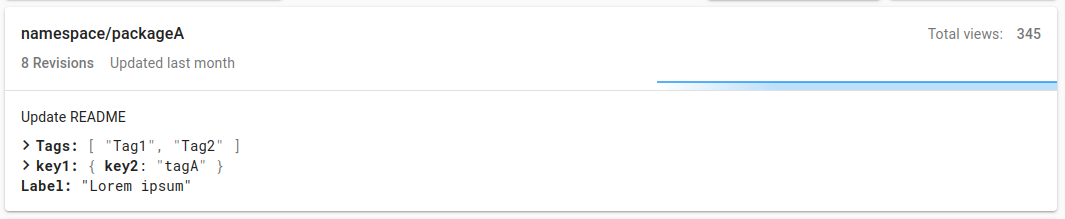
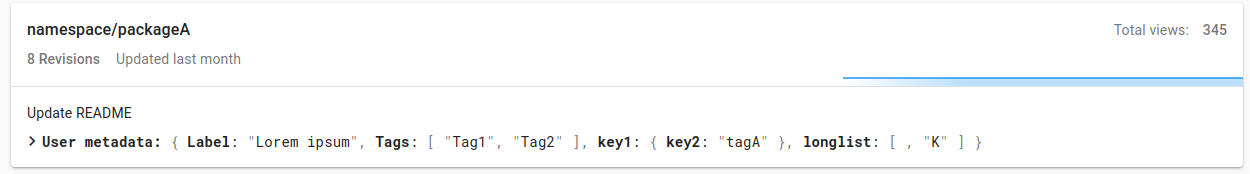
User metadata on one line (#3284)

diff --git a/catalog/app/utils/BucketPreferences/BucketPreferences.ts b/catalog/app/utils/BucketPreferences/BucketPreferences.ts
@@ -56,9 +56,13 @@ export interface PackagePreferences {
   userMeta?: ReadonlyArray<string>
 }
 type PackagesListPreferencesInput = Record<string, PackagePreferencesInput>
-type PackagesListPreferences = Record<string, PackagePreferences>
+interface PackagesListPreferences {
+  packages: Record<string, PackagePreferences>
+  userMetaMultiline: boolean
+}
 
 type DefaultSourceBucketInput = string
+type PackageDescriptionMultiline = boolean
 type SourceBucketsInput = Record<string, null>
 
 export interface AthenaPreferencesInput {
@@ -77,6 +81,7 @@ interface UiPreferencesInput {
   defaultSourceBucket?: DefaultSourceBucketInput
   nav?: Partial<NavPreferences>
   package_description?: PackagesListPreferencesInput
+  package_description_multiline?: PackageDescriptionMultiline
   sourceBuckets?: SourceBucketsInput
 }
 
@@ -94,7 +99,7 @@ interface UiPreferences {
   athena: AthenaPreferences
   blocks: BlocksPreferences
   nav: NavPreferences
-  package_description: PackagesListPreferences
+  packageDescription: PackagesListPreferences
   sourceBuckets: SourceBuckets
 }
 
@@ -132,10 +137,13 @@ const defaultPreferences: BucketPreferences = {
       packages: true,
       queries: true,
     },
-    package_description: {
-      '.*': {
-        message: true,
+    packageDescription: {
+      packages: {
+        '.*': {
+          message: true,
+        },
       },
+      userMetaMultiline: false,
     },
     sourceBuckets: {
       getDefault: () => '',
@@ -186,16 +194,25 @@ function parseBlocks(blocks?: BlocksPreferencesInput): BlocksPreferences {
   }
 }
 
-function parsePackages(packages?: PackagesListPreferencesInput): PackagesListPreferences {
+function parsePackages(
+  packages?: PackagesListPreferencesInput,
+  userMetaMultiline: boolean = false,
+): PackagesListPreferences {
   return Object.entries(packages || {}).reduce(
-    (memo, [name, { message, user_meta }]) => ({
-      ...memo,
-      [name]: {
-        message,
-        userMeta: user_meta,
-      },
-    }),
-    defaultPreferences.ui.package_description,
+    (memo, [name, { message, user_meta }]) =>
+      R.assocPath(
+        ['packages', name],
+        {
+          message,
+          userMeta: user_meta,
+        },
+        memo,
+      ),
+    {
+      packages: defaultPreferences.ui.packageDescription.packages,
+      userMetaMultiline:
+        userMetaMultiline || defaultPreferences.ui.packageDescription.userMetaMultiline,
+    },
   )
 }
 
@@ -232,7 +249,10 @@ export function extendDefaults(
       ...R.mergeDeepRight(defaultPreferences.ui, data?.ui || {}),
       athena: parseAthena(data?.ui?.athena),
       blocks: parseBlocks(data?.ui?.blocks),
-      package_description: parsePackages(data?.ui?.package_description),
+      packageDescription: parsePackages(
+        data?.ui?.package_description,
+        data?.ui?.package_description_multiline,
+      ),
       sourceBuckets: parseSourceBuckets(
         sentry,
         data?.ui?.sourceBuckets,

diff --git a/catalog/app/containers/Bucket/PackageList/PackageList.tsx b/catalog/app/containers/Bucket/PackageList/PackageList.tsx
@@ -224,20 +224,30 @@ interface RevisionMetaProps {
 
 function RevisionMeta({ revision }: RevisionMetaProps) {
   const classes = useRevisionMetaStyles()
+  const { preferences } = BucketPreferences.use()
   return (
     <div className={classes.root}>
       {!!revision.message && <div className={classes.section}>{revision.message}</div>}
       {!!revision.userMeta && (
         <div className={classes.section}>
-          {Object.entries(revision.userMeta).map(([name, value]) => (
-            /* @ts-expect-error */
+          {preferences?.ui.packageDescription.userMetaMultiline ? (
+            Object.entries(revision.userMeta).map(([name, value]) => (
+              // @ts-expect-error
+              <JsonDisplay
+                className={cx({ [classes.sectionWithToggle]: typeof value === 'object' })}
+                key={`user-meta-section-${name}`}
+                name={name}
+                value={value}
+              />
+            ))
+          ) : (
+            // @ts-expect-error
             <JsonDisplay
-              className={cx({ [classes.sectionWithToggle]: typeof value === 'object' })}
-              key={`user-meta-section-${name}`}
-              name={name}
-              value={value}
+              className={classes.sectionWithToggle}
+              name="User metadata"
+              value={revision.userMeta}
             />
-          ))}
+          )}
         </div>
       )}
     </div>
@@ -259,9 +269,9 @@ function usePackageDescription(
 ): BucketPreferences.PackagePreferences | null {
   const { preferences } = BucketPreferences.use()
   return React.useMemo(() => {
-    if (!preferences?.ui.package_description) return null
+    if (!preferences?.ui.packageDescription.packages) return null
     return (
-      Object.entries(preferences?.ui.package_description)
+      Object.entries(preferences?.ui.packageDescription.packages)
         .reverse() // The last found config wins
         .find(([nameRegex]) => new RegExp(nameRegex).test(name))?.[1] || {}
     )

diff --git a/catalog/app/utils/BucketPreferences/BucketPreferences.spec.ts b/catalog/app/utils/BucketPreferences/BucketPreferences.spec.ts
@@ -30,10 +30,13 @@ const expectedDefaults = {
       packages: true,
       queries: true,
     },
-    package_description: {
-      '.*': {
-        message: true,
+    packageDescription: {
+      packages: {
+        '.*': {
+          message: true,
+        },
       },
+      userMetaMultiline: false,
     },
     sourceBuckets: {
       list: [],

diff --git a/docs/Catalog/Preferences.md b/docs/Catalog/Preferences.md
@@ -33,6 +33,7 @@ ui:
   package_description:
     .*:
       message: True
+  package_description_multiline: False
 ```
 
 ### Properties
@@ -62,6 +63,7 @@ that is selected by default; if it doesn't match any bucket then it's ignored
 that maps package handle regular expressions
 or literals to JSONPath expressions of fields to show from package metadata
 in the package list view.
+* `ui.package_description_multiline: True` - expands package metadata's root key/values
 * `ui.athena.defaultWorkgroup` - default workgroup to select on the Athena page
 
 #### `ui.sourceBuckets` example

diff --git a/docs/CHANGELOG.md b/docs/CHANGELOG.md
@@ -27,6 +27,7 @@ Entries inside each section should be ordered by type:
 * [Changed] Show collapsed values in JSON viewer ([#3249](https://github.com/quiltdata/quilt/pull/3249))
 * [Changed] Rename "Metadata" to "User metadata" ([#3255](https://github.com/quiltdata/quilt/pull/3255))
 * [Changed] Show selective metadata for packages as JSON ([#3259](https://github.com/quiltdata/quilt/pull/3259))
+* [Changed] Show selective metadata on one line and optionaly on multiple lines ([#3284](https://github.com/quiltdata/quilt/pull/3284))
 
 # 5.1.0 - 2022-12-09
 ## Python API
